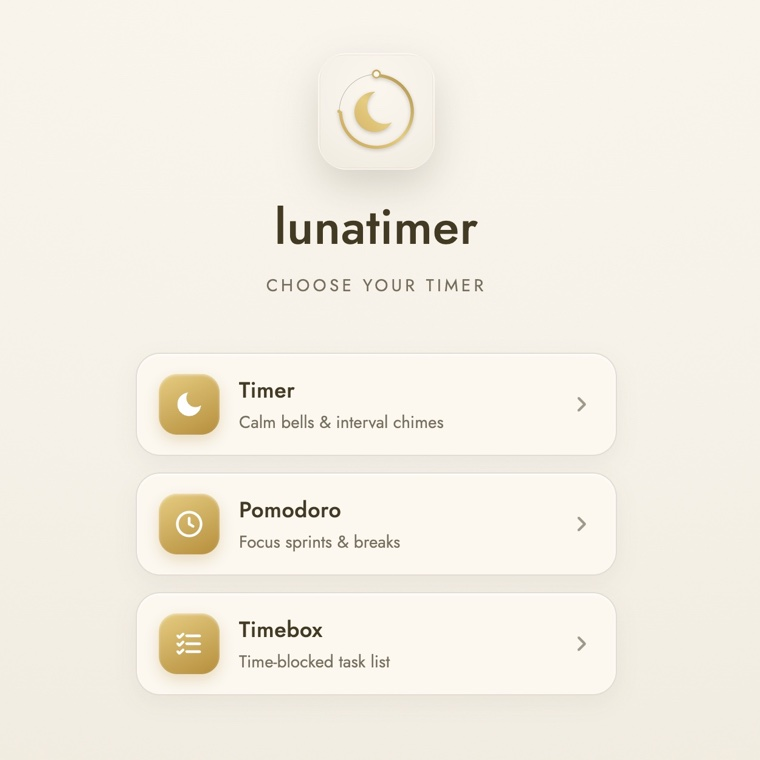
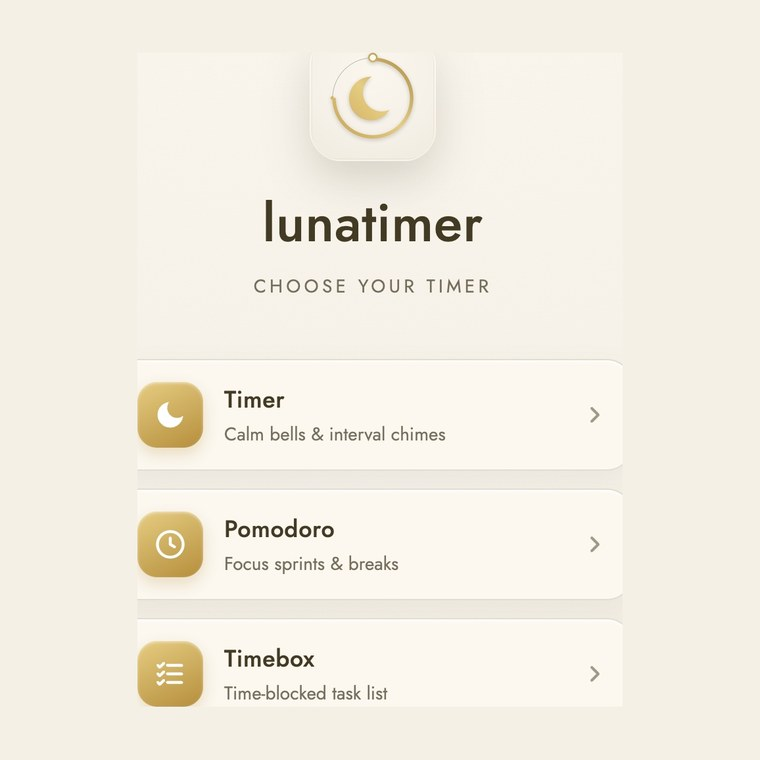
Landing: normalize all screenshots to uniform padded squares

diff --git a/sw.js b/sw.js
@@ -1,4 +1,4 @@
-const CACHE = 'elegant-timer-v18';
+const CACHE = 'elegant-timer-v19';
 const ASSETS = [
   './',
   './index.html',
